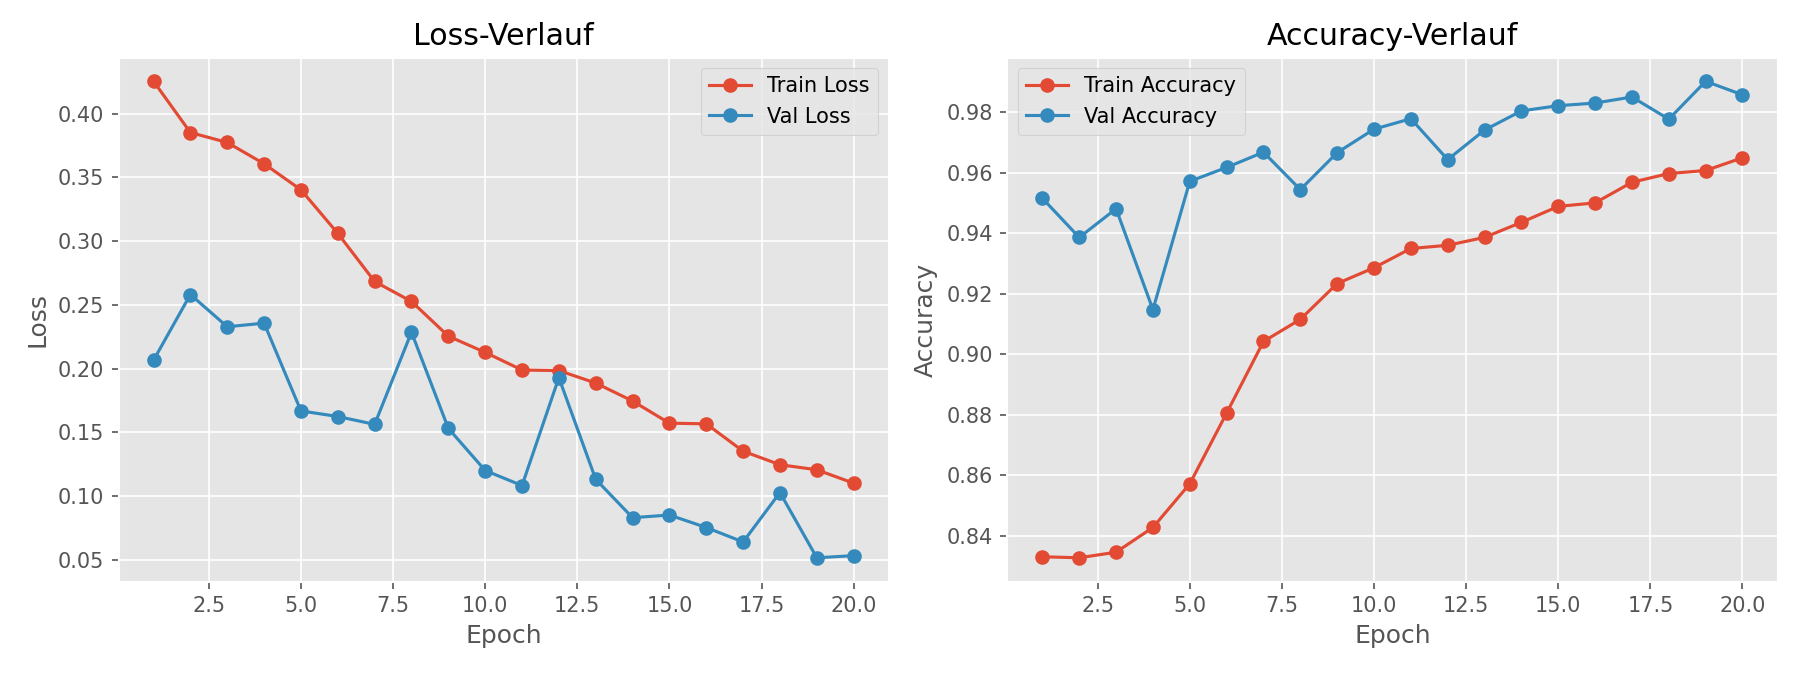
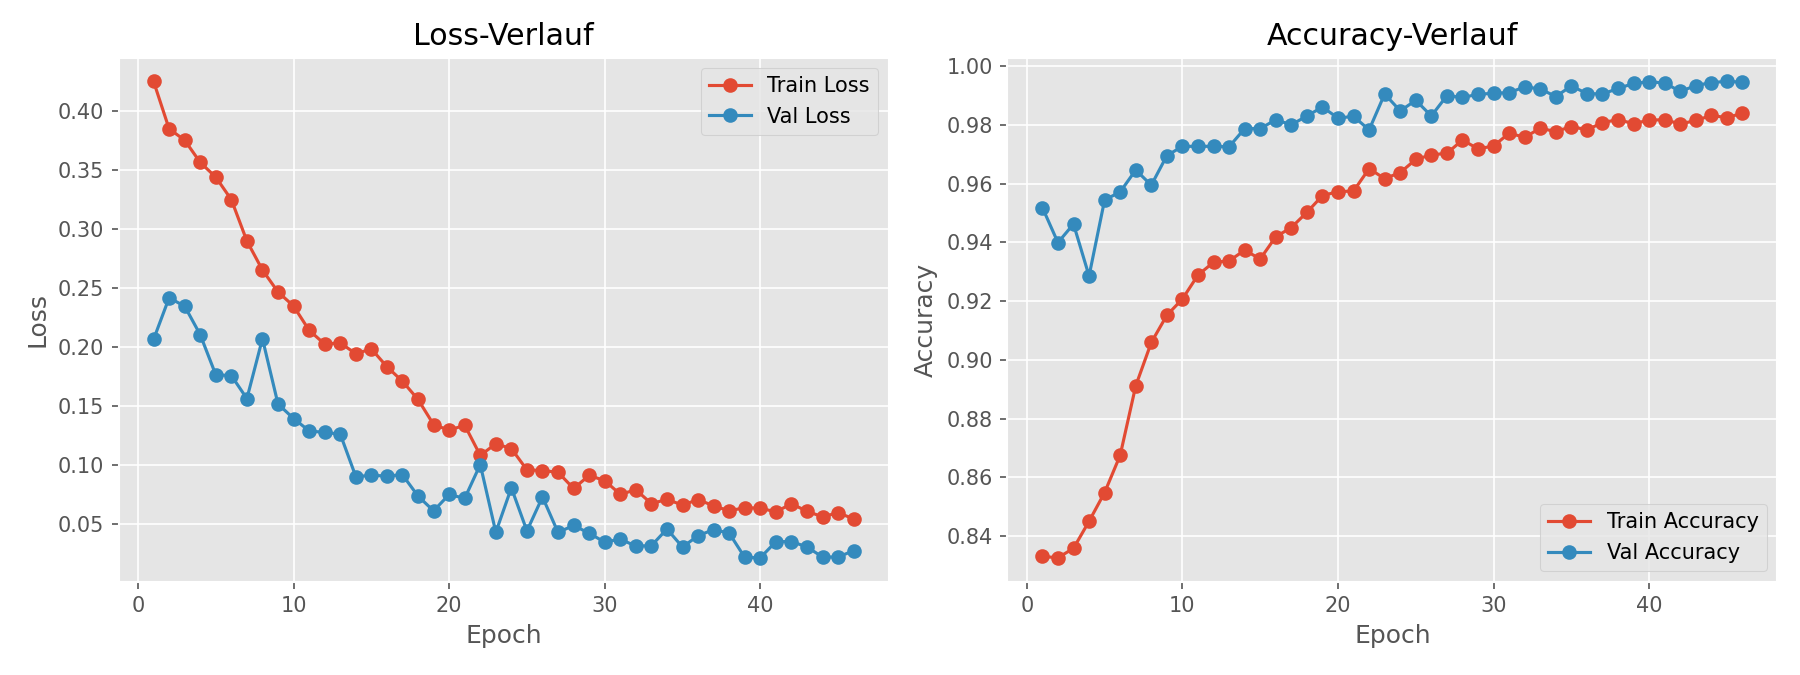
add early stopping

diff --git a/project/02_train_model.py b/project/02_train_model.py
@@ -14,11 +14,13 @@ from torchvision.transforms import functional as TF
 
 # Basis-Konfiguration
 SEED = 42
-EPOCHS = 20
+EPOCHS = 100
 BATCH_SIZE = 128
 POSITIVE_MULTIPLIER = 4
 LEARNING_RATE = 1e-3
 MAX_TRAIN_BATCHES_PER_EPOCH = 0
+EARLY_STOPPING_PATIENCE = 6
+EARLY_STOPPING_MIN_DELTA = 1e-4
 PLOT_PATH = Path('plot/model_training_learning_curve.png')
 
 def get_device() -> torch.device:
@@ -301,6 +303,18 @@ def parse_args():
         help='Limit der Train-Batches pro Epoche (<=0 = kein Limit).',
     )
     parser.add_argument(
+        '--early-stopping-patience',
+        type=int,
+        default=EARLY_STOPPING_PATIENCE,
+        help='Anzahl Epochen ohne ausreichende Val-Loss-Verbesserung bis Stopp (<=0 = deaktiviert).',
+    )
+    parser.add_argument(
+        '--early-stopping-min-delta',
+        type=float,
+        default=EARLY_STOPPING_MIN_DELTA,
+        help='Minimale Val-Loss-Verbesserung, die als Fortschritt gilt.',
+    )
+    parser.add_argument(
         '--model-out',
         type=str,
         default='models/cnn_zurich_best.pt',
@@ -359,6 +373,7 @@ def main() -> None:
 
     history = {'train_loss': [], 'val_loss': [], 'train_acc': [], 'val_acc': []}
     best_val_loss = float('inf')
+    epochs_without_improvement = 0
     max_batches = None if args.max_train_batches <= 0 else args.max_train_batches
 
     for epoch in range(1, args.epochs + 1):
@@ -391,9 +406,24 @@ def main() -> None:
             f"val_recall={val_recall:.4f}, val_f1={val_f1:.4f}"
         )
 
-        if val_loss < best_val_loss:
+        if val_loss < (best_val_loss - args.early_stopping_min_delta):
             best_val_loss = val_loss
+            epochs_without_improvement = 0
             torch.save(model.state_dict(), model_out)
+        else:
+            epochs_without_improvement += 1
+            if args.early_stopping_patience > 0:
+                print(
+                    f'Keine ausreichende Verbesserung der Val-Loss seit '
+                    f'{epochs_without_improvement} Epoche(n) '
+                    f'(patience={args.early_stopping_patience}).'
+                )
+                if epochs_without_improvement >= args.early_stopping_patience:
+                    print(
+                        f'Early Stopping nach Epoche {epoch}: '
+                        f'best_val_loss={best_val_loss:.4f}'
+                    )
+                    break
 
     print(f'Bestes Modell gespeichert unter: {model_out}')
     plot_learning_curves(history, plot_out)

diff --git a/project/01_data_split.py b/project/01_data_split.py
@@ -100,20 +100,20 @@ def parse_args():
 	parser.add_argument(
 		"--neg-dir",
 		type=str,
-		default="../data/zürich/n/",
-		help="Ordner mit negativ gelabelten Bildern (Standard: ../data/zürich/n/)",
+		default="../data/winterthur/n/",
+		help="Ordner mit negativ gelabelten Bildern (Standard: ../data/winterthur/n/)",
 	)
 	parser.add_argument(
 		"--pos-dir",
 		type=str,
-		default="../data/zürich/y/",
-		help="Ordner mit positiv gelabelten Bildern (Standard: ../data/zürich/y/)",
+		default="../data/winterthur/y/",
+		help="Ordner mit positiv gelabelten Bildern (Standard: ../data/winterthur/y/)",
 	)
 	parser.add_argument(
 		"--output-dir",
 		type=str,
-		default="../data/zürich/split/",
-		help="Output-Ordner fuer train/val/test (Standard: ../data/zürich/split/)",
+		default="../data/winterthur/split/",
+		help="Output-Ordner fuer train/val/test (Standard: ../data/winterthur/split/)",
 	)
 	parser.add_argument(
 		"--splits",
